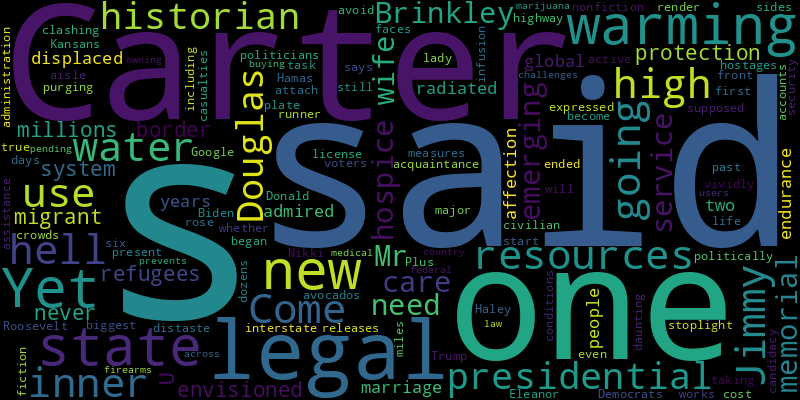
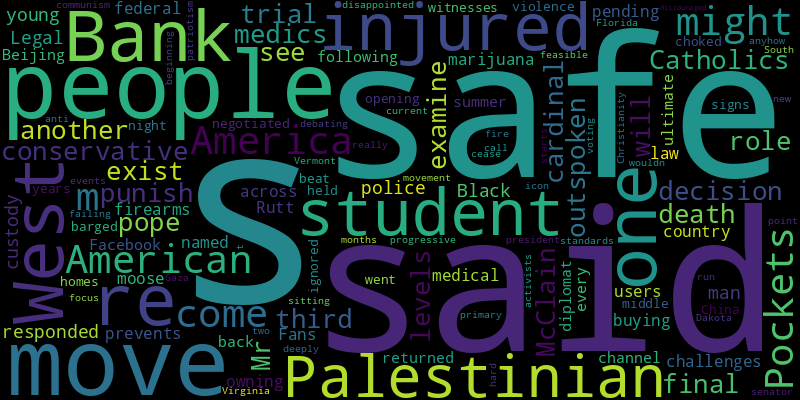
chore(bot): 👻 auto commit

diff --git a/README.md b/README.md
@@ -2,41 +2,41 @@
 Auto RSS New York Times and Generate Word Cloud
 
 ## New York Times Global News
-* Hamas freed a group of 10 Israelis or dual nationals and two Thai citizens on Tuesday in exchange for 30 imprisoned Palestinians, keeping with the terms of the temporary cease-fire agreement.
-* The West African nation has not identified the military officials and one civilian it arrested after attacks in the capital on Sunday that left 20 people dead and more than 2,000 prisoners on the loose.
-* Relations have deteriorated markedly since Russia’s invasion of Ukraine, and the Finns accuse Moscow of orchestrating a flow of migrants in retaliation for Finland joining NATO.
-* Marianna Budanova, whose husband is the director of military intelligence, is recovering in a hospital, the officials said. Her husband has long accused Russia of trying to kill him.
-* A government anti-smoking plan also includes costlier cigarettes and a ban on disposable vapes. Smoking is the leading cause of avoidable deaths in France.
-* Winning the rights to host the major global event is a coup for Crown Prince Mohammed bin Salman’s efforts to remake the kingdom’s international image.
-* A Toronto teenager who killed a woman in a massage business was sentenced on Tuesday to life in prison. The case was the first time gender-based violence in the country was labeled terrorism.
-* Tens of thousands of Gazans are making the most difficult of choices, leaving their homes behind to survive.
-* Continued American funding for Ukraine was a key concern for leaders in the military alliance, who met as the current allocation was running down and a Ukrainian counteroffensive appeared stalled.
-* Illegal deforestation for avocado crops points to a blood-soaked trade with the United States involving threats, abductions and killings.
+* Hamas freed 16 hostages, and Israel released 30 imprisoned Palestinians. With the expiration of a temporary cease-fire just hours away, mediators in Qatar were trying to negotiate another extension.
+* Éric Dupond-Moretti was charged with using his position as a weapon to order investigations into four magistrates he had recently clashed with.
+* Climate activists have balked at the fact that a leading oil producer, the United Arab Emirates, is hosting this year’s U.N. climate talks. But Emirati officials say they, too, are grappling with hard questions.
+* The bloc’s Court of Justice, ruling in the case of a female employee in Belgium who was told she could not wear a hijab in the office, said the restriction was lawful.
+* The Canadian government reached a deal with Google before a new law compelling tech giants to compensate news organizations comes into effect late next month.
+* Environmentalists argued that a road project was destabilizing the fragile Himalayan landscape. The government maneuvered to continue it.
+* Amid questions over Western resolve, Secretary of State Antony J. Blinken and other diplomats stressed their commitment to Kyiv’s bid to join the alliance.
+* Some people in the West Bank, where frustration with the Palestinian Authority has been simmering for years, believe Hamas and other armed groups are the only ones they can trust to protect them.
+* In the days after Russia’s invasion of Ukraine, Chancellor Olaf Scholz promised to revitalize Germany’s military. Nearly two years on, major change has yet to be felt.
+* President William Ruto has drawn attention internationally as a climate champion and peace mediator but faces domestic discontent over rising food and fuel prices, and new taxes.
 
 ![Global](./global.png)
 ## New York Times United States News
-* “Come hell or high water, Jimmy Carter was going to use his inner resources to be there,” the presidential historian Douglas Brinkley said of Mr. Carter’s emerging from hospice care for his wife’s memorial service.
-* “We need protection,” one migrant at the U.S. border said. But the legal system for refugees never envisioned the millions displaced by global warming.
-* Their marriage was admired for its endurance — 77 years — and for the affection between the two people in it. “It radiated,” one acquaintance said.
-* These new works of fiction and nonfiction vividly render the state’s past and present.
-* For six days, politicians from both sides of the aisle and other Kansans expressed their distaste for what was supposed to have been the state’s new license plate.
-* Plus, Hamas releases 12 more hostages, the true cost of avocados and Google says it will start purging accounts.
-* She rose to become the most politically active first lady since Eleanor Roosevelt. Yet her life began and ended dozens of miles from any interstate highway or even a stoplight.
-* The crowds are her biggest yet, and voters are warming up to her candidacy, but Nikki Haley still faces a daunting task in taking down the front-runner, Donald Trump.
-* Democrats are clashing with each other and the Biden administration over whether to attach conditions, including measures to avoid civilian casualties, to a major infusion of security assistance.
+* “In the West Bank we’re not safe,” one injured student said, “and as a Palestinian American, I’m not safe in America because of people like this that might come out.”
+* Pockets of conservative Catholics exist at all levels, and they see the pope’s decision to punish an outspoken cardinal as another move against them.
+* The third and final trial over Mr. McClain’s 2019 death will examine the role of the medics who responded while the young Black man was in police custody.
 * Legal challenges are pending across the country against a federal law that prevents medical marijuana users from buying or owning firearms.
+* Fans of the moose, who have named him Rutt, have been following his every move on Facebook.
+* Just this summer, the ultimate back-channel diplomat returned to Beijing, where he had negotiated the opening to China.
+* They barged into homes in the middle of the night, then held people down while they beat and choked them, witnesses said. For years, signs of the violence went ignored.
+* Some progressive activists are deeply disappointed in the Vermont senator, an icon of their movement, for failing to call for a cease-fire in Gaza.
+* It’s really hard to run against a sitting president. And beginning at this point, just two months before primary voting starts, wouldn’t be feasible anyhow.
+* Virginia, Florida and South Dakota have new standards that focus on patriotism, Christianity and anti-communism. But debating current events? That’s discouraged.
 
 ![US](./usnews.png)
 ## New York Times Asia News
+* Sartorial signs of fall abound on the streets of the Japanese capital.
+* In Beijing’s praise of his legacy, there is implicit criticism of a U.S. shift in recent years away from cooperation and toward intensifying competition.
+* The scheme described by federal prosecutors could upset a key element of President Biden’s foreign policy agenda: bolstering ties with India.
+* The playful, waddling bears charmed millions of people at the Edinburgh Zoo of the Royal Zoological Society of Scotland.
+* He grew Soka Gakkai International’s following over two decades and helped create a coalition partner for the country’s dominant Liberal Democratic Party.
+* Plus the U.S. charges an Indian man in an assassination plot.
+* Environmentalists argued that a road project was destabilizing the fragile Himalayan landscape. The government maneuvered to continue it.
 * The incident comes three months after three Marines died in an Osprey crash in Australia.
 * Some firms argue that a law aimed at popularizing electric vehicles risks turning the United States into an assembly shop for Chinese-made technology.
 * Plus how New Zealand’s Maori Wardens keep the peace.
-* Winning the rights to host the major global event is a coup for Crown Prince Mohammed bin Salman’s efforts to remake the kingdom’s international image.
-* After repeated mechanical setbacks, the operation turned to trained miners using manual tools to clear the final stretch of debris.
-* The flow of students between the countries has been a mainstay of their relationship, even when ties have soured. Now these exchanges, too, are under threat.
-* The government is preparing to present its energy transition plan at the U.N. climate talks as it intensifies a crackdown on environmental advocates.
-* The law, celebrated as a model for other countries, would have eventually made tobacco illegal.
-* Chinese families are sending money overseas, a sign of worry about the country’s economic and political future. But a cheaper currency is also helping exports.
-* The strategies used by the Indigenous community policing alternative are in stark contrast to more muscular tactics pitched by the incoming government.
 
 ![Asian](./asian.png)
